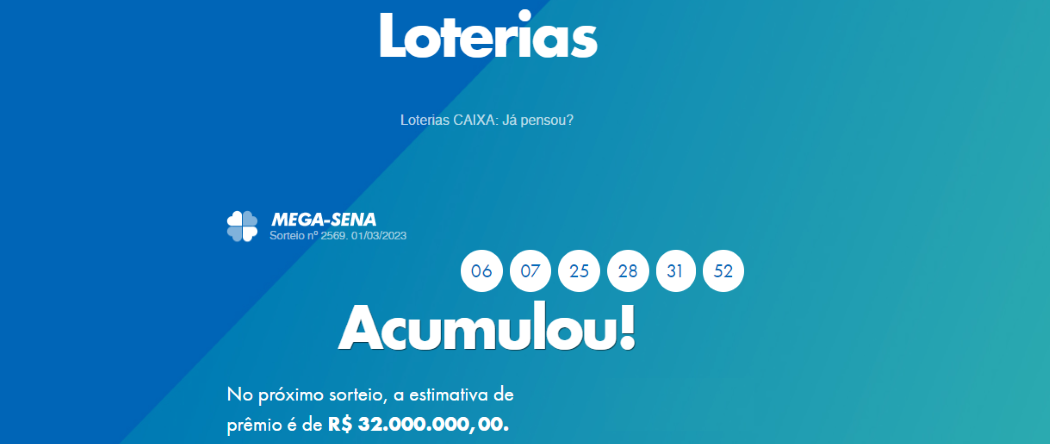
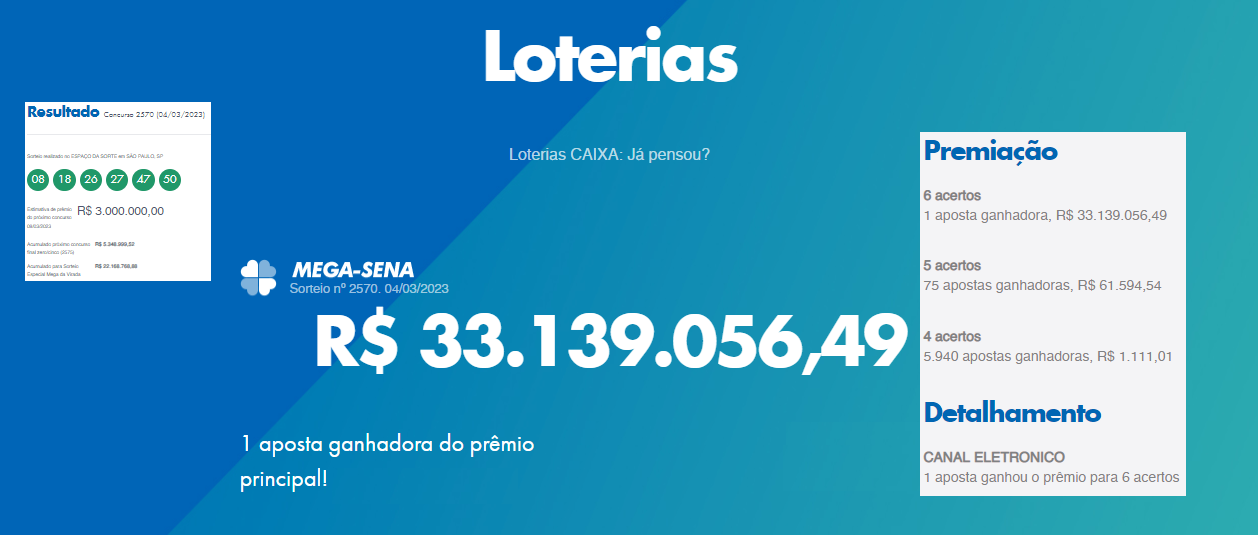
update home

diff --git a/mega-sena.html b/mega-sena.html
@@ -611,6 +611,21 @@
           <div class="row padding_top">
             <div class="col-sm-12 col-md-6 col-lg-4 loteria_area_home">
               <div class="loteria_home_caixa borda_esquerda_mega borda_direita_mega borda_cima_mega borda_baixo_mega">
+                Concurso: <strong>2570</strong><br />04/03/2023 - sábado<div><span class="dezenas dezenas_mega  "
+                    data-toggle="popover" data-placement="bottom" data-content="Oito">08</span> <span
+                    class="dezenas dezenas_mega  " data-toggle="popover" data-placement="bottom"
+                    data-content="Dezoito">18</span> <span class="dezenas dezenas_mega  " data-toggle="popover"
+                    data-placement="bottom" data-content="Vinte e Seis">26</span> <span class="dezenas dezenas_mega  "
+                    data-toggle="popover" data-placement="bottom" data-content="Vinte e Sete">27</span> <span
+                    class="dezenas dezenas_mega  " data-toggle="popover" data-placement="bottom"
+                    data-content="Quarenta e Sete">47</span> <span class="dezenas dezenas_mega  " data-toggle="popover"
+                    data-placement="bottom" data-content="Cinquenta">50</span> </div> <a
+                  class="btn btn-default botao botao_mega" href="https://loterias.caixa.gov.br/Paginas/Mega-Sena.aspx" 
+                  title="Resultado Mega Sena 2568"><span class="icon-mais"></span>
+                  Mais Detalhes</a><br /><br /></div>
+            </div>
+            <div class="col-sm-12 col-md-6 col-lg-4 loteria_area_home">
+              <div class="loteria_home_caixa borda_esquerda_mega borda_direita_mega borda_cima_mega borda_baixo_mega">
                 Concurso: <strong>2569</strong><br />01/03/2023 - segunda-feira (Acumulou)<div><span class="dezenas dezenas_mega  "
                     data-toggle="popover" data-placement="bottom" data-content="Seis">06</span> <span
                     class="dezenas dezenas_mega  " data-toggle="popover" data-placement="bottom"

diff --git a/todos-resultados-mega-sena.html b/todos-resultados-mega-sena.html
@@ -195,7 +195,21 @@
                 <h2><span class="icon-relogio"></span> Últimos resultados da Mega Sena</h2>
               </div>
             </div>
-            <div class="row padding_top">
+            <div class="row padding_top">            <div class="col-sm-12 col-md-6 col-lg-4 loteria_area_home">
+              <div class="loteria_home_caixa borda_esquerda_mega borda_direita_mega borda_cima_mega borda_baixo_mega">
+                Concurso: <strong>2570</strong><br />04/03/2023 - sábado<div><span class="dezenas dezenas_mega  "
+                    data-toggle="popover" data-placement="bottom" data-content="Oito">08</span> <span
+                    class="dezenas dezenas_mega  " data-toggle="popover" data-placement="bottom"
+                    data-content="Dezoito">18</span> <span class="dezenas dezenas_mega  " data-toggle="popover"
+                    data-placement="bottom" data-content="Vinte e Seis">26</span> <span class="dezenas dezenas_mega  "
+                    data-toggle="popover" data-placement="bottom" data-content="Vinte e Sete">27</span> <span
+                    class="dezenas dezenas_mega  " data-toggle="popover" data-placement="bottom"
+                    data-content="Quarenta e Sete">47</span> <span class="dezenas dezenas_mega  " data-toggle="popover"
+                    data-placement="bottom" data-content="Cinquenta">50</span> </div> <a
+                  class="btn btn-default botao botao_mega" href="https://loterias.caixa.gov.br/Paginas/Mega-Sena.aspx" 
+                  title="Resultado Mega Sena 2568"><span class="icon-mais"></span>
+                  Mais Detalhes</a><br /><br /></div>
+            </div>
               <div class="col-sm-12 col-md-6 col-lg-4 loteria_area_home">
                 <div class="loteria_home_caixa borda_esquerda_mega borda_direita_mega borda_cima_mega borda_baixo_mega">
                   Concurso: <strong>2569</strong><br />01/03/2023 - segunda-feira (Acumulou)<div><span class="dezenas dezenas_mega  "

diff --git a/lista-de-resultados-da-mega-sena.html b/lista-de-resultados-da-mega-sena.html
@@ -165,6 +165,7 @@
             sorteio e os
             números sorteados!
             <div class="espacamento_altura"></div>
+            <strong>2570</strong> - 04/03/2023 -  08 18 26 27 57 59<div class="limpar_flutuacao"></div>
             <strong>2569</strong> - 01/03/2023 (Acumulou) -  06 07 25 28 31 52<div class="limpar_flutuacao"></div>
             <strong>2568</strong> - 25/02/2023 (Acumulou) -  16 22 29 35 38 49<div class="limpar_flutuacao"></div>
             <strong>2567</strong> - 23/02/2023 - 10 11 19 33 58 60<div class="limpar_flutuacao"></div>

diff --git a/megadavez.html b/megadavez.html
@@ -150,7 +150,7 @@
                     <a target="_blank" href="./img/resultado_mega_sena.png">
                         <img src="./img/resultado_mega_sena.png" alt="Mountains" width="600" height="400">
                     </a>
-                    <div class="desc">Resultado Mega Sena Concurso 2569 01/03/2023 (Acumulou)</div>
+                    <div class="desc">Resultado Mega Sena Concurso 2570 04/03/2023 (Acumulou)</div>
                 </div>
             </footer>
 
